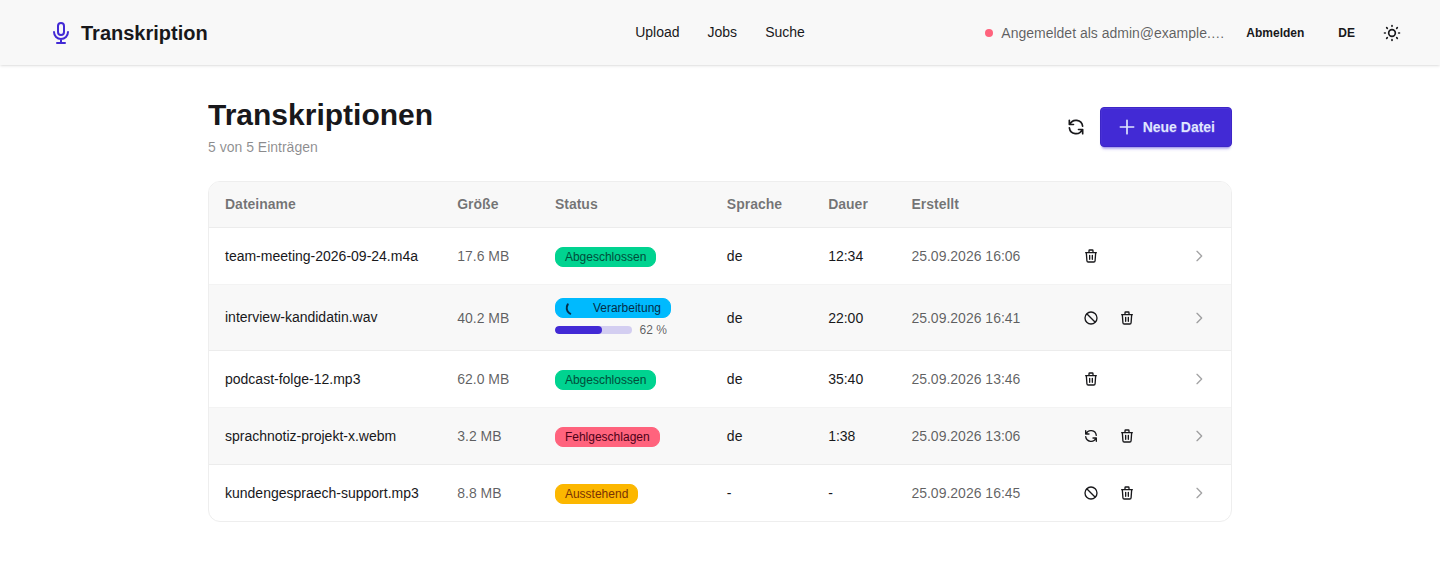
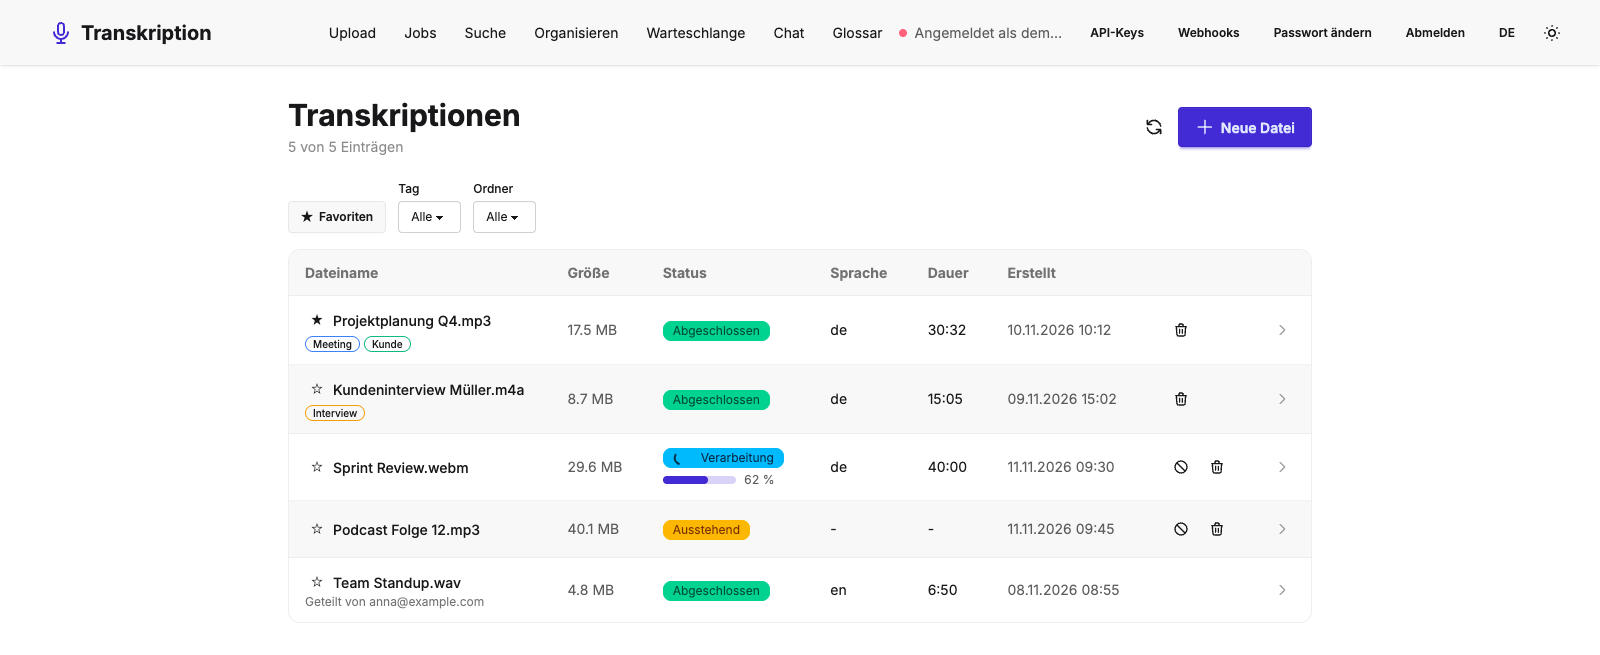
docs: update changelog and README with epic E-02 features and new screenshots (#242)
* chore: upgrade to .NET 11 and Aspire 13.6.5

- target net11.0 in all projects; bump ASP.NET Core, EF Core and
  Microsoft.Extensions.* packages to 11.0.0
- bump Aspire AppHost SDK and hosting/client packages to 13.6.5 and the
  Ollama community toolkit to 13.6.1
- update Dockerfile base images and CI setup-dotnet to 11.0
- update docs and agent/skill descriptions to .NET 11

* test(auth): make concurrent admin demotion test independent of timing

The losing request may be rejected with 401/403 when the winner's
security stamp update lands before it is authorized, instead of 409 from
the last-admin guard. Assert that exactly one demotion succeeds and the
other is refused either way.

* test(upload): keep the transcription worker out of resumable upload tests

The worker picked up the freshly created job concurrently, so asserting
Status == Pending (and the assembled file still being on disk) raced
with it on slow CI runners. These tests cover the upload protocol only.

* docs: update changelog and README with epic E-02 features and new screenshots

- changelog: add stories S18-S34 (PWA, RAG chat, semantic search, templates,
  chapters, tus upload, editor, queue, glossary, exports, organize,
  observability, retention, sharing, user admin), .NET 11 upgrade and tests
- readme: rebuild screenshot section, add chat, queue, API keys and
  webhooks screenshots, refresh existing ones, mention Qdrant and Ollama

---------

diff --git a/CHANGELOG.md b/CHANGELOG.md
@@ -7,6 +7,21 @@ Das Format orientiert sich an [Keep a Changelog](https://keepachangelog.com/de/1
 ## [Unreleased]
 
 ### Hinzugefügt
+- **PWA und Offline-Aufnahme (S33):** App auf dem Handy installierbar (Manifest, Service Worker nur für die App-Shell, nie für API-Antworten); Aufnahmen werden abschnittsweise in IndexedDB gesichert, überstehen Absturz und geschlossenes Tab und werden bei Verbindung automatisch hochgeladen (Liste „Wartet auf Upload“). Entscheidungen in ADR 0012.
+- **Chat mit Transkripten / RAG (S24):** `POST /api/chat` beantwortet Fragen zu einer Aufnahme, einem Ordner oder allen Transkripten als Server-Sent-Events-Stream mit überprüfbaren Zitaten (Sprung in den Player), privaten Gesprächsverläufen, Rate-Limit und Anzeige, welches Modell antwortet und ob es ein externer Dienst ist. Transkripte gelten als untrusted Data (Schutz vor Prompt-Injection), Standard ist lokal über Ollama. Entscheidungen in ADR 0011.
+- **Semantische und kombinierte Suche (S23):** Suche nach Bedeutung über Embeddings in Qdrant (lokal `bge-m3` über Ollama, OpenAI nur per ausdrücklicher Konfiguration), Modi „Wörtlich“, „Bedeutung“ und „Kombiniert“ (Reciprocal Rank Fusion), serverseitig erzwungene Berechtigungen, Admin-Neuaufbau des Index (`/api/admin/search/*`). Qualität auf einem deutschen Evaluationsset gemessen und dokumentiert. Entscheidungen in ADR 0010.
+- **Protokoll-Vorlagen (S26):** Strukturierte Nachbearbeitung mit Vorlagen (Besprechungsprotokoll, Entscheidungsliste, Aufgaben mit Verantwortlichen), Ergebnis wird gegen ein JSON-Schema geprüft und als Markdown gerendert; eigene Vorlagen durch Admins.
+- **Automatische Kapitel (S25):** Das lokale Sprachmodell gliedert lange Aufnahmen in Kapitel mit Titel und Kurzzusammenfassung; Marker auf der Zeitleiste, Kapitelliste mit Sprung per Klick oder Tastatur, Kapitel umbenennen und löschen.
+- **Wiederaufnehmbarer Upload (S27):** Dateien ab 10 MiB werden per tus-Protokoll in Chunks hochgeladen (automatische Wiederholung, Pause/Fortsetzen, Aufräumen bei Abbruch); der bisherige Upload-Endpunkt bleibt unverändert.
+- **Transkript-Editor (S32):** Segmente lassen sich im Player korrigieren, jede Änderung ist eine neue Version mit Verlauf, Diff und Wiederherstellen; das Rohtranskript bleibt unverändert, Suche, Untertitel und Exporte nutzen die korrigierte Fassung.
+- **Batch-Upload und Warteschlange (S34):** Mehrere Dateien gleichzeitig hochladen (bis zu 3 parallel), Warteschlangen-Übersicht mit Position, geschätzter Wartezeit, Priorität und Abbrechen.
+- **Glossare (S22):** Eigene Begriffslisten, die Whisper als Initial-Prompt für Namen und Fachwörter erhält; zu lange Listen werden gemeldet statt still abgeschnitten.
+- **Weitere Exportformate (S21):** Transkript und Fassungen als Word (DOCX), Markdown, JSON und PDF, optional mit Zeitstempeln und Sprechernamen. Entscheidungen in ADR 0008.
+- **Tags, Ordner und Favoriten (S20):** Persönliche Organisation der Jobs (auch geteilter), Filter in Liste und Suche, Verwaltungsseite „Organisieren“.
+- **Observability (S29):** Fachliche Metriken (Jobs, Dauer, Echtzeitfaktor, Warteschlange), Traces der Pipeline und Readiness-Checks, optional mit Prometheus und Grafana; ohne Dateinamen oder Inhalte (siehe `docs/observability.md`).
+- **Aufbewahrungsfristen (S30):** Optionales automatisches Löschen von Jobs (`Retention:TranscriptDays`) bzw. nur der Audiodatei (`Retention:AudioDays`), Schutz einzelner Jobs durch den Eigentümer, Lösch-Protokoll ohne Dateinamen oder Inhalte.
+- **Jobs pro Benutzer und Freigabe (S19):** Jeder Benutzer sieht nur seine eigenen Jobs und die, die andere read-only mit ihm teilen (REST, SignalR und Suche serverseitig abgesichert). Entscheidungen in ADR 0007.
+- **Benutzerverwaltung (S18):** Admin-Oberfläche für Benutzer und Rollen sowie „Passwort ändern“ für angemeldete Benutzer.
 - **Automatisierung (S28):** API-Keys für Skripte (SHA-256-Hash, Scopes `jobs:read`/`jobs:write`, Ablauf, Rate-Limit), signierte Webhooks (`job.completed`/`job.failed`, HMAC-SHA256, Wiederholung mit Backoff, Zustellungsprotokoll, SSRF-Schutz), Ordner-Watch mit neustartsicherer Verarbeitung, Verwaltungsseiten „API-Keys“ und „Webhooks“ (DE/EN) und OpenAPI-Auth-Schemata. Entscheidungen in ADR 0009.
 - **Initialer Admin-Account:** `InitialUserSeeder` legt beim ersten Start optional einen Admin-Benutzer aus der Konfiguration an (`Auth:InitialUser:Email`/`Password`), inkl. automatischer `Admin`-Rolle.
 - **OpenAPI-Dokumentation (EN-3):** `GET /openapi/v1.json` liefert eine vollständige, maschinenlesbare Beschreibung aller Endpunkte.
@@ -24,6 +39,8 @@ Das Format orientiert sich an [Keep a Changelog](https://keepachangelog.com/de/1
 - **CI-Pipeline (S16):** GitHub-Actions-Workflow mit Backend-/Frontend-Tests, Repo-Hygiene-Check und HTML-Testreports.
 
 ### Geändert
+- **.NET 11 und Aspire 13.6.5:** Alle Projekte zielen auf `net11.0`; ASP.NET Core, EF Core und `Microsoft.Extensions.*` auf 11.0.0, Aspire-AppHost und -Pakete auf 13.6.5, Dockerfile-Basisimages und CI (`setup-dotnet`) auf 11.0.
+- **Dokumentation:** README um neue Screenshots (Chat, Warteschlange, API-Keys, Webhooks) erweitert und die bestehenden aktualisiert.
 - **Job-Wiederherstellung:** Offene Transkriptions-Jobs werden nach einem API-Neustart automatisch fortgesetzt.
 - **SignalR-Reconnect:** Das Frontend verbindet sich nach Verbindungsabbrüchen automatisch neu und synchronisiert den Job-Status.
 - **Roh- vs. bearbeitetes Transkript (S04):** Rohtranskript und nachbearbeitete Fassung werden getrennt gespeichert; das Frontend erlaubt das Umschalten zwischen Original und bearbeiteter Version.
@@ -39,6 +56,8 @@ Das Format orientiert sich an [Keep a Changelog](https://keepachangelog.com/de/1
 - **DE/EN i18n (via Transloco):** Frontend-Texte sind vollständig über Übersetzungsdateien gepflegt, keine hartkodierten sichtbaren Strings.
 
 ### Tests
+- **E2E-Kernflows mit gemockter API (S31):** Playwright-Specs (`*.mocked.spec.ts`) für Kernabläufe, Batch/Queue, Kapitel, Editor, tus-Upload und Offline-Aufnahme laufen nur mit dem Dev-Server und haben einen eigenen CI-Job.
+- **Stabilere Tests:** Der Admin-Herabstufungs-Test ist unabhängig vom Timing, und die Upload-Tests halten den Transkriptions-Worker heraus.
 - **Vitest-Unit-Tests (Web):** Frontend-Unit-Tests laufen über den Angular-Builder und sind in die CI integriert.
 - **E2E-Test Job-Lifecycle (S09):** End-to-End-Test gegen den laufenden Stack.
 

diff --git a/README.md b/README.md
@@ -38,17 +38,27 @@ Lade eine Audiodatei hoch, verfolge den Verarbeitungsstatus live über SignalR u
 
 ## 🖼 Screenshots
 
+Die Screenshots zeigen die Oberfläche mit Demo-Daten.
+
 | Anmeldung | Upload |
 |---|---|
-| ![Anmeldeseite](docs/screenshots/login.png) | ![Upload-Seite mit Modell-/Sprachauswahl](docs/screenshots/upload.png) |
+| ![Anmeldeseite](docs/screenshots/login.png) | ![Upload-Seite mit Modell-, Sprach- und Glossarauswahl](docs/screenshots/upload.png) |
 
-| Job-Übersicht | Job-Details mit Sprechern und Fassungen |
+| Job-Übersicht mit Tags, Favoriten und Fortschritt | Warteschlange |
 |---|---|
-| ![Liste der Transkriptions-Jobs](docs/screenshots/jobs.png) | ![Job-Detailansicht mit Transkript, Sprechererkennung und Zeitstempeln](docs/screenshots/job-detail.png) |
+| ![Liste der Transkriptions-Jobs mit Tags, Favoriten und Live-Fortschritt](docs/screenshots/jobs.png) | ![Warteschlange mit Position, Priorität und geschätzter Wartezeit](docs/screenshots/queue.png) |
 
-| Volltextsuche |
+| Job-Details mit Sprechern, Kapiteln, Fassungen und Zeitstempeln |
 |---|
-| ![Volltextsuche mit hervorgehobenen Treffern](docs/screenshots/search.png) |
+| ![Job-Detailansicht mit Transkript, Fassungen, Sprechererkennung, Kapiteln und Zeitstempeln](docs/screenshots/job-detail.png) |
+
+| Suche (Wörtlich, Bedeutung, Kombiniert) | Chat mit Transkripten |
+|---|---|
+| ![Kombinierte Volltext- und semantische Suche](docs/screenshots/search.png) | ![Chat mit überprüfbaren Zitaten und Sprung in den Player](docs/screenshots/chat.png) |
+
+| API-Keys | Webhooks |
+|---|---|
+| ![Verwaltung der API-Keys](docs/screenshots/api-keys.png) | ![Verwaltung der Webhooks](docs/screenshots/webhooks.png) |
 
 ## 🔐 Datenschutz
 
@@ -458,7 +468,7 @@ Alle Endpunkte außer Login erfordern eine Anmeldung, sonst antworten sie mit `4
 
 ## 🛠 Tech-Stack
 
-**Backend:** ASP.NET Core (.NET 11) · EF Core · SQL Server · SignalR · Whisper.net · ffmpeg · .NET Aspire
+**Backend:** ASP.NET Core (.NET 11) · EF Core · SQL Server · Qdrant · SignalR · Whisper.net · Ollama · ffmpeg · .NET Aspire
 **Frontend:** Angular 22 (zoneless, Standalone Components, Signals) · Tailwind CSS 4 · DaisyUI 5
 
 ## 📝 Changelog
